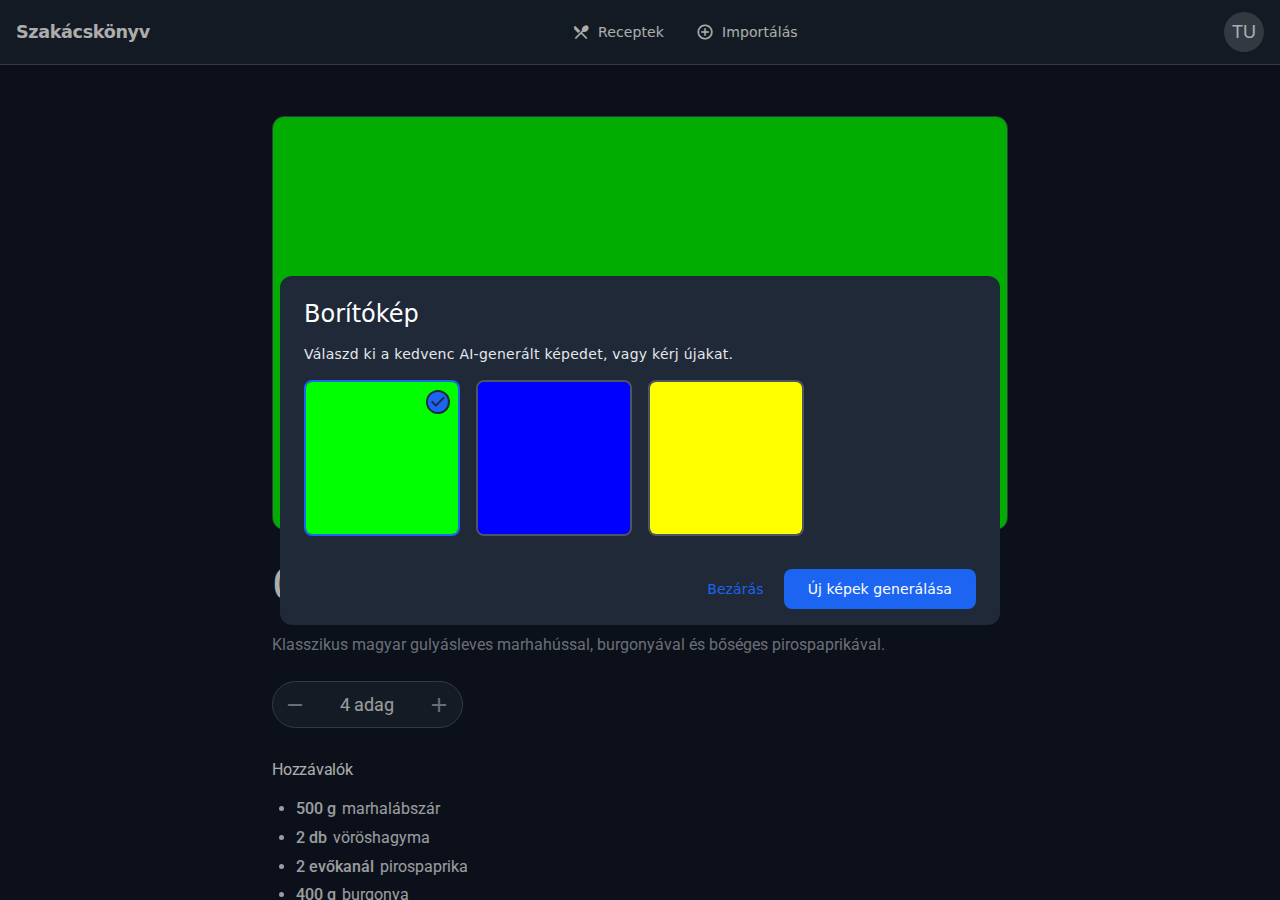
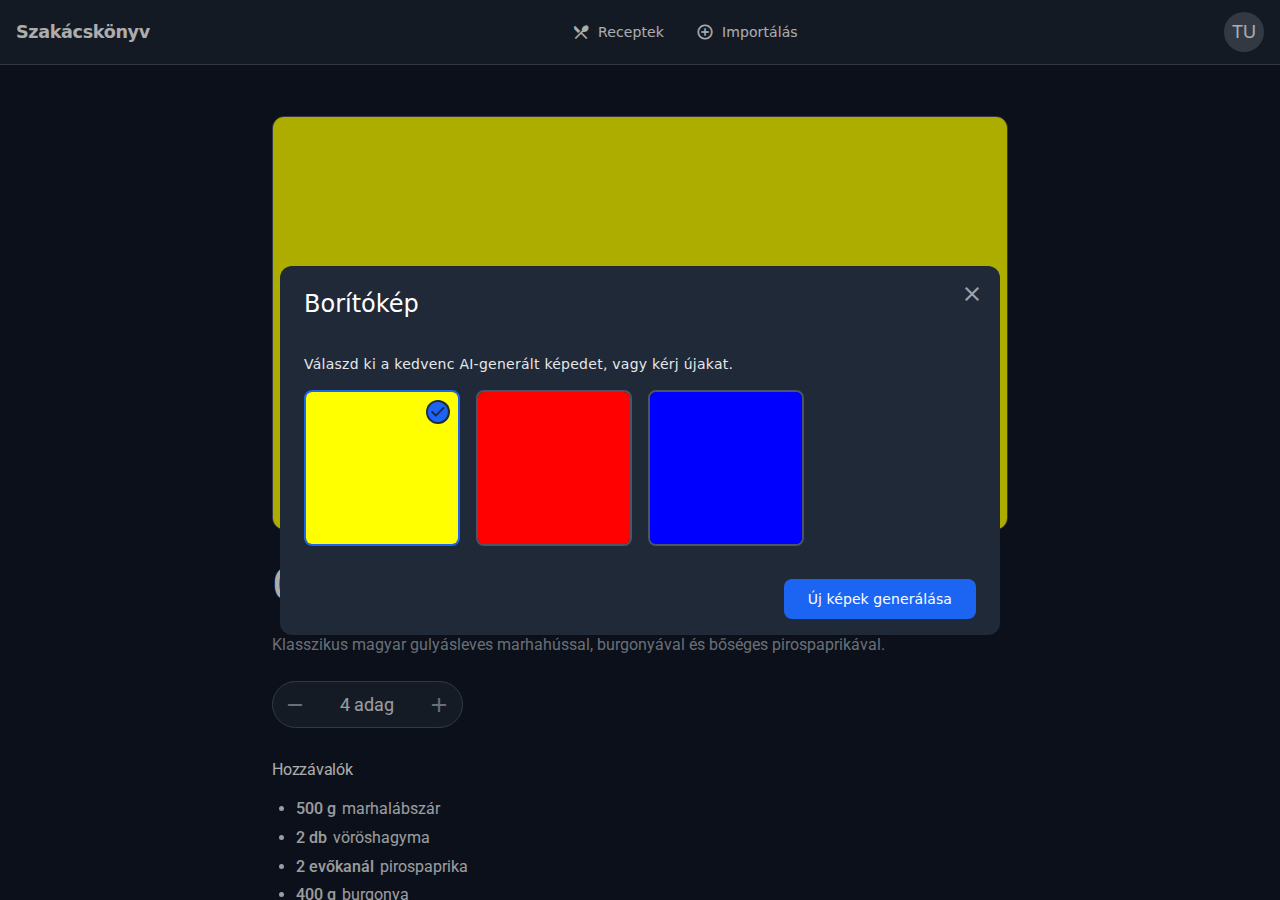
Add a top-right close button to the thumbnail dialog

Changed region(s): [[0.1875, 0.1244, 0.8125, 0.7156]]

diff --git a/test/tests/recipe-details.spec.ts b/test/tests/recipe-details.spec.ts
@@ -35,6 +35,14 @@ test('opens image generation from the empty thumbnail and restores keyboard focu
   await thumbnail.press('Enter');
   await expect(dialog).toBeVisible();
   await expect(candidates.first()).toHaveAttribute('aria-pressed', 'true');
+  await expect(dialog.getByRole('heading', { name: 'Borítókép', exact: true })).toBeFocused();
+  await page.keyboard.press('Tab');
+  await expect(dialog.getByRole('button', { name: 'Bezárás', exact: true })).toBeFocused();
+  await page.keyboard.press('Enter');
+  await expect(dialog).toBeHidden();
+  await expect(thumbnail).toBeFocused();
+  await thumbnail.press('Enter');
+  await expect(dialog).toBeVisible();
   await page.keyboard.press('Escape');
   await expect(dialog).toBeHidden();
   await expect(thumbnail).toBeFocused();

diff --git a/client/src/app/recipe-detail/recipe-image-dialog.component.html b/client/src/app/recipe-detail/recipe-image-dialog.component.html
@@ -1,4 +1,7 @@
 <h2 mat-dialog-title>Borítókép</h2>
+<button class="close-button" mat-icon-button mat-dialog-close aria-label="Bezárás">
+  <mat-icon aria-hidden="true">close</mat-icon>
+</button>
 <mat-dialog-content>
   <p>Válaszd ki a kedvenc AI-generált képedet, vagy kérj újakat.</p>
   @if (error(); as message) {
@@ -47,7 +50,6 @@
   }
 </mat-dialog-content>
 <mat-dialog-actions align="end">
-  <button mat-button mat-dialog-close>Bezárás</button>
   <button mat-flat-button [disabled]="generating()" (click)="generateImages()">
     Új képek generálása
   </button>

diff --git a/client/src/app/recipe-detail/recipe-image-dialog.component.css b/client/src/app/recipe-detail/recipe-image-dialog.component.css
@@ -1,3 +1,18 @@
+:host {
+  display: block;
+  position: relative;
+}
+
+h2 {
+  padding-right: 64px;
+}
+
+.close-button {
+  position: absolute;
+  top: 8px;
+  right: 8px;
+}
+
 .candidates {
   display: grid;
   grid-template-columns: repeat(auto-fill, minmax(140px, 1fr));
